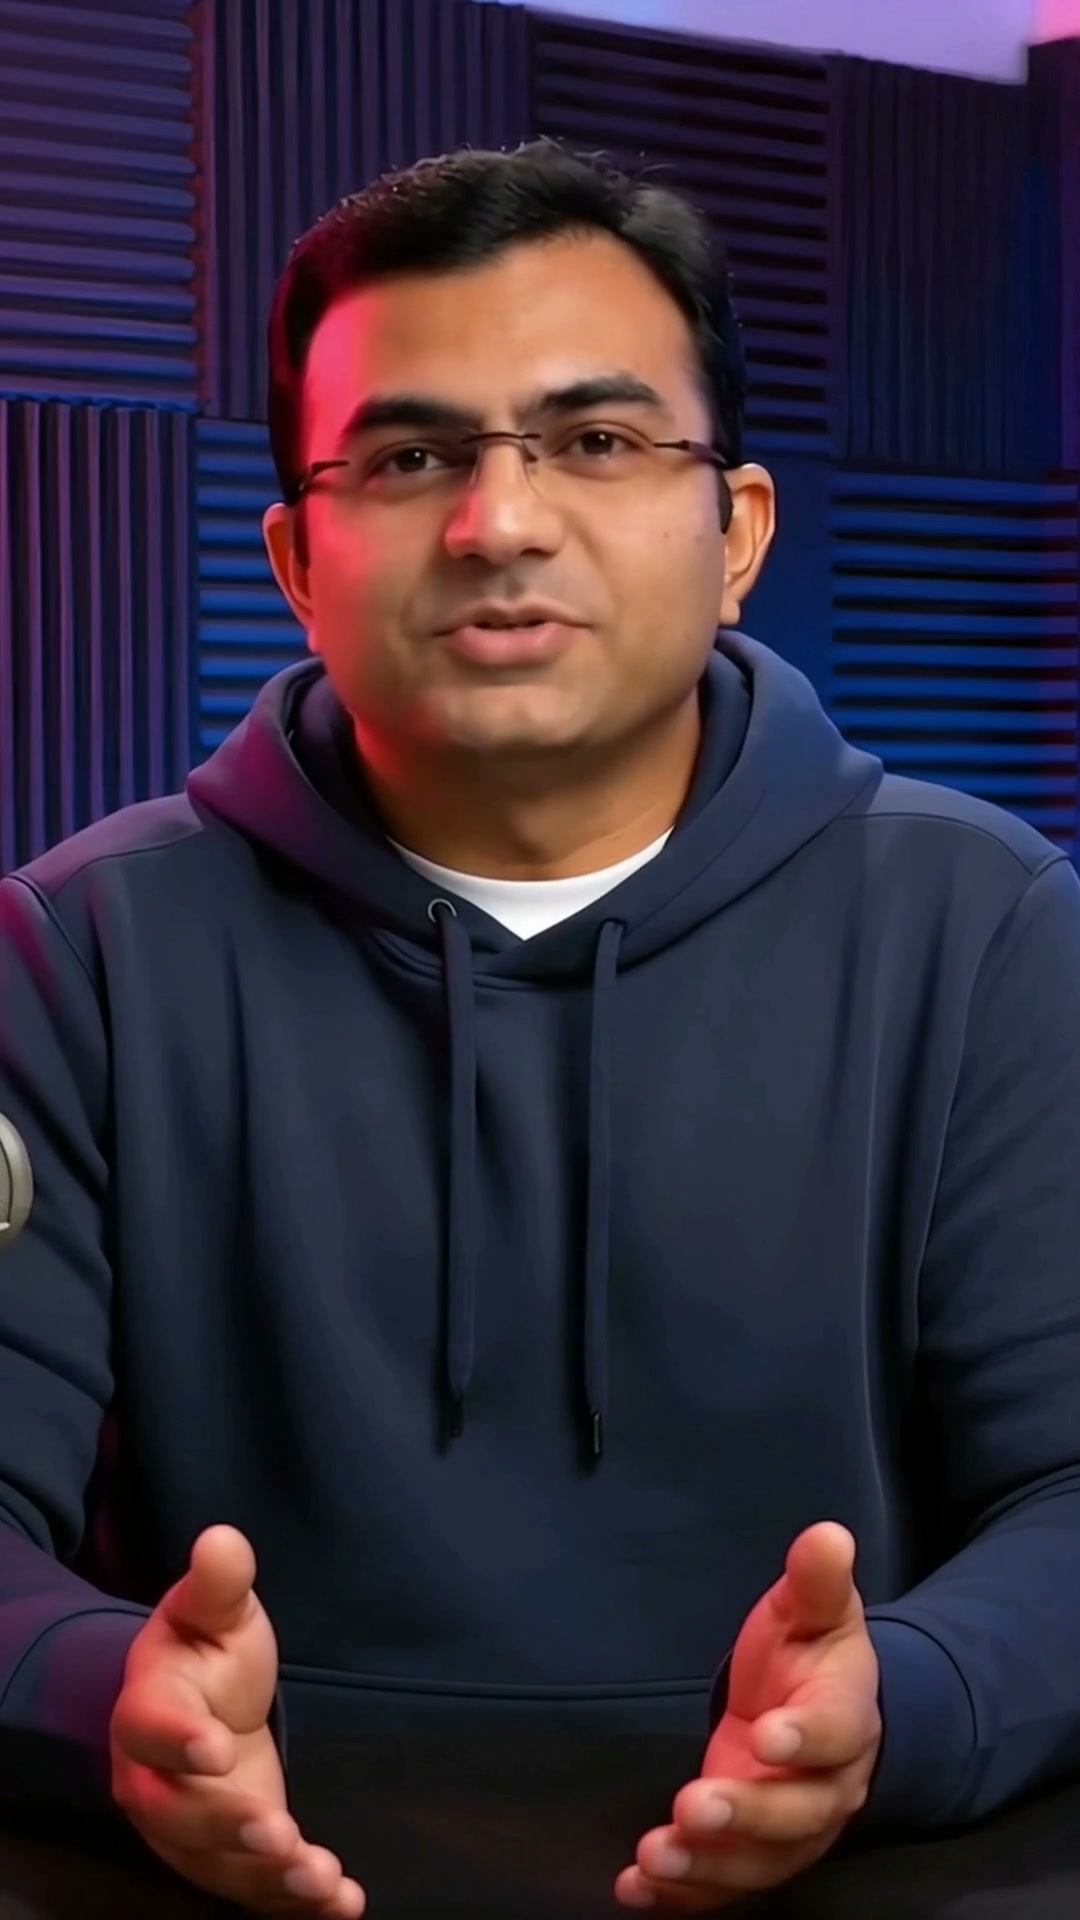
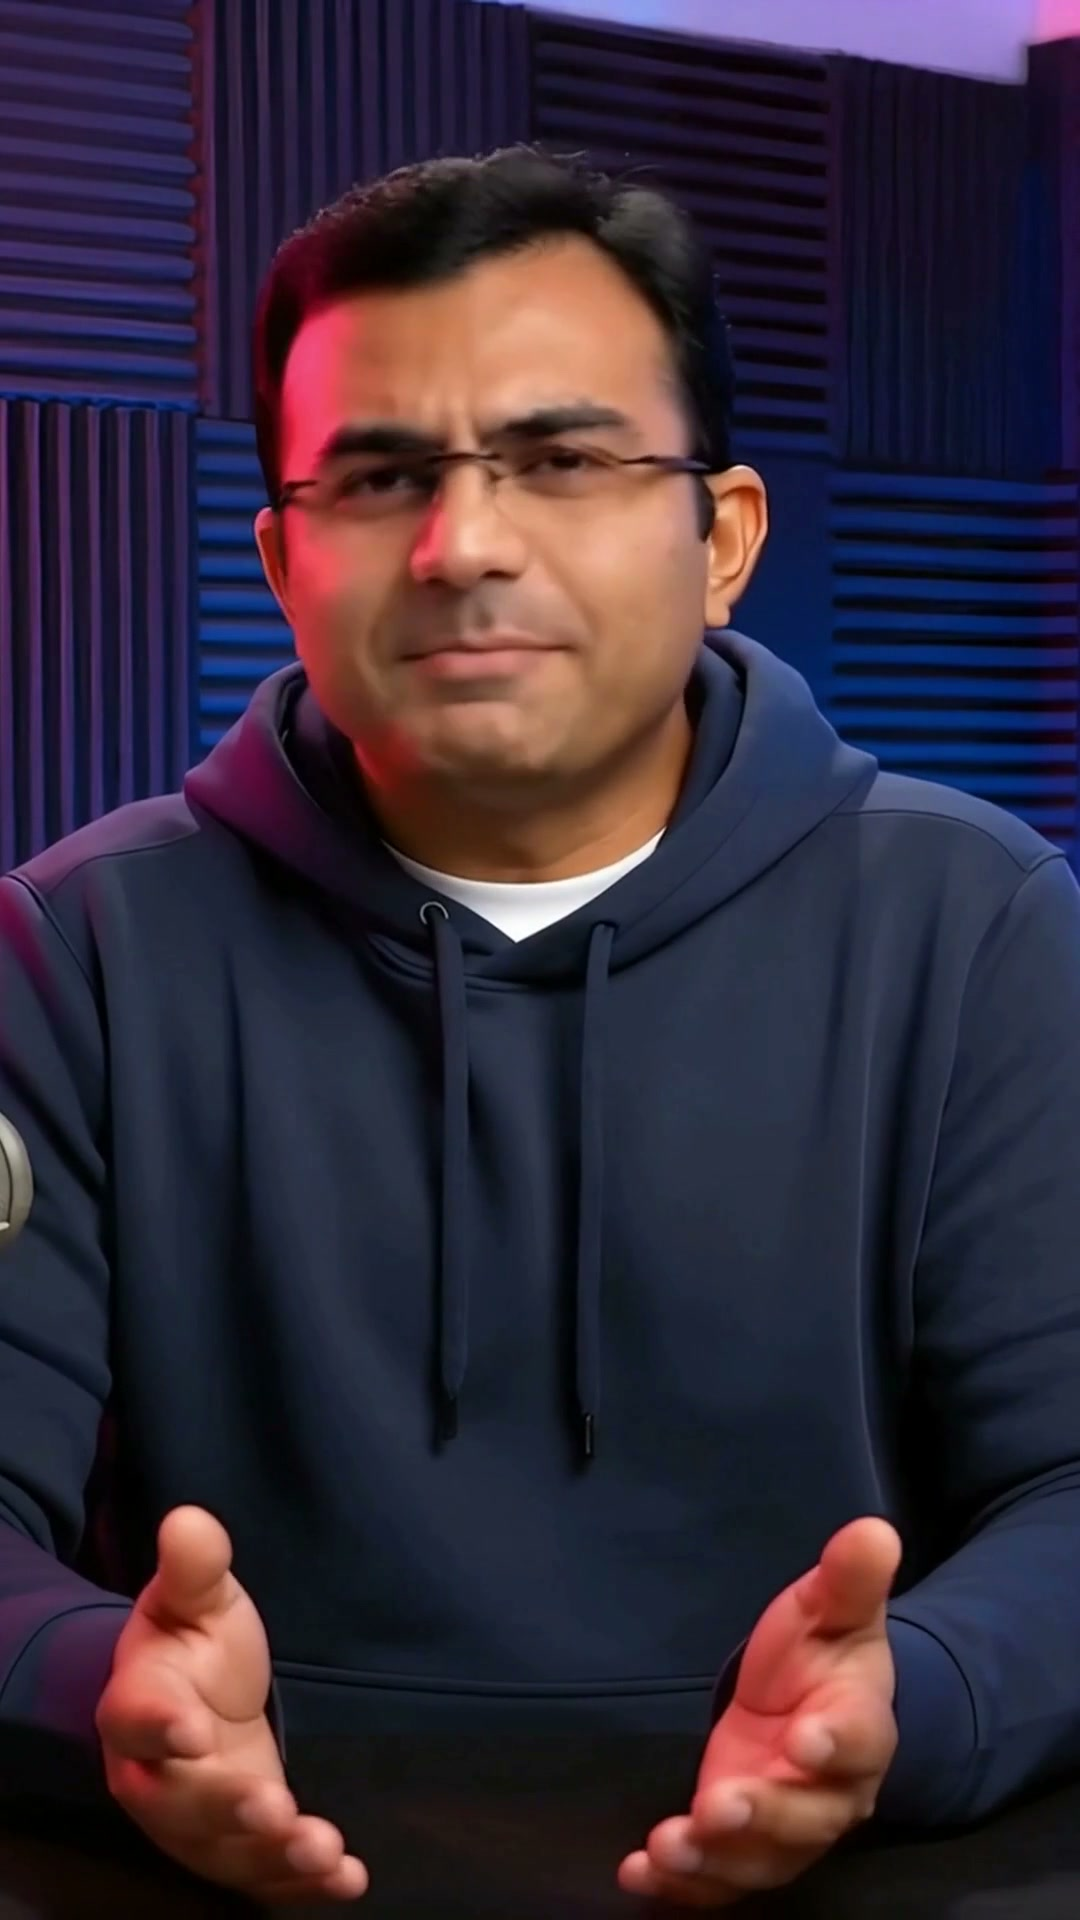
v3 master (pace 1.12/style 0.35, 58.5s in-band); number-merge norm fix; anchors and corrections tuned to v3 transcript

diff --git a/scripts/compile_shot_plan.py b/scripts/compile_shot_plan.py
@@ -144,7 +144,12 @@ def load_words(path: Path) -> list[dict[str, Any]]:
         # thousand dollars" -> "$2" + ",000"); only "." was handled.
         if text[:1] in (".", ",") and out and tokens and tokens[0].isdigit():
             out[-1]["text"] = f'{out[-1]["text"]}{text[:1]}{tokens[0]}'
-            out[-1]["norm"] = normalize(out[-1]["text"])[-1]
+            # The WHOLE number, joined: [-1] kept only the last token, so
+            # "100,000" carried norm "000" and no anchor containing the
+            # number could ever resolve (found 2026-08-25 on claude-eating-
+            # tokens shot 4 — the display half of this merge was right, the
+            # matching half silently wasn't).
+            out[-1]["norm"] = "".join(normalize(out[-1]["text"]))
             out[-1]["end"] = end
             continue
         # A possessive/contraction ("Apple's") normalises to ["apple","s"], and

diff --git a/scripts/doctor.py b/scripts/doctor.py
@@ -208,7 +208,9 @@ else:
     cfg = json.loads(cfg_path.read_text())
     av, de = cfg.get("avatar", {}), cfg.get("defaults", {})
     checks = [
-        ("avatar.voiceSpeed", av.get("voiceSpeed"), 1.05),
+        # 1.12 locked 2026-08-25 (user: 1.05 read "slow and flat"; probed
+        # fd83905a before the regen). Supersedes the 2026-08-11 1.05 lock.
+        ("avatar.voiceSpeed", av.get("voiceSpeed"), 1.12),
         ("defaults.captionStyle", de.get("captionStyle"), "word-reveal"),
     ]
     for name, got, want in checks:

diff --git a/RULES.md b/RULES.md
@@ -66,7 +66,7 @@ happens must be traceable to a measurement.
 | Setting | Value | Enforced |
 |---|---|---|
 | Runtime | per FORMAT (`--formats`), chosen from the topic, never padded. Past the band: `allowLong` + a written `allowLongReason`. **Hard ceiling 180s** (platform limit) — allowLong cannot pass it | [GATE:G02] |
-| Voice speed | **1.05** | `config.json` [EYE] |
+| Voice speed | **1.12** (+ elevenlabs style 0.35 / stability 0.42) | `config.json` [EYE] |
 | HeyGen engine | **per-look, by measurement** — see `avatarRegistry` | `config.json` [EYE] |
 | Caption style | **`word-reveal`** (was `nick-display`) | [GATE:G10] |
 | Style pack | `editorial` default, else `utility`. Never invent a third. | [EYE] |

diff --git a/CLAUDE.md b/CLAUDE.md
@@ -143,7 +143,7 @@ Live in `config.json` (`avatar.voiceSpeed`, `defaults.*`, `avatarRegistry`).
 |---|---|
 | Runtime | per FORMAT — `python3 tools/reel_gates.py --formats`. The band is the DEFAULT, not a cap: set `allowLong` + `allowLongReason` when the topic earns it. **Hard ceiling 180s (G02)** — the platform limit, not an editorial one |
 | Hook | per FORMAT; opens on the actual tension/consequence |
-| Voice speed | 1.05 |
+| Voice speed | 1.12 (style 0.35, stability 0.42 — 2026-08-25) |
 | Captions | word-reveal, one highlight per beat, verified against narration |
 | Style pack | editorial (news, comparison) · utility (top5, ai-tools) |
 | Master | −14 LUFS |
